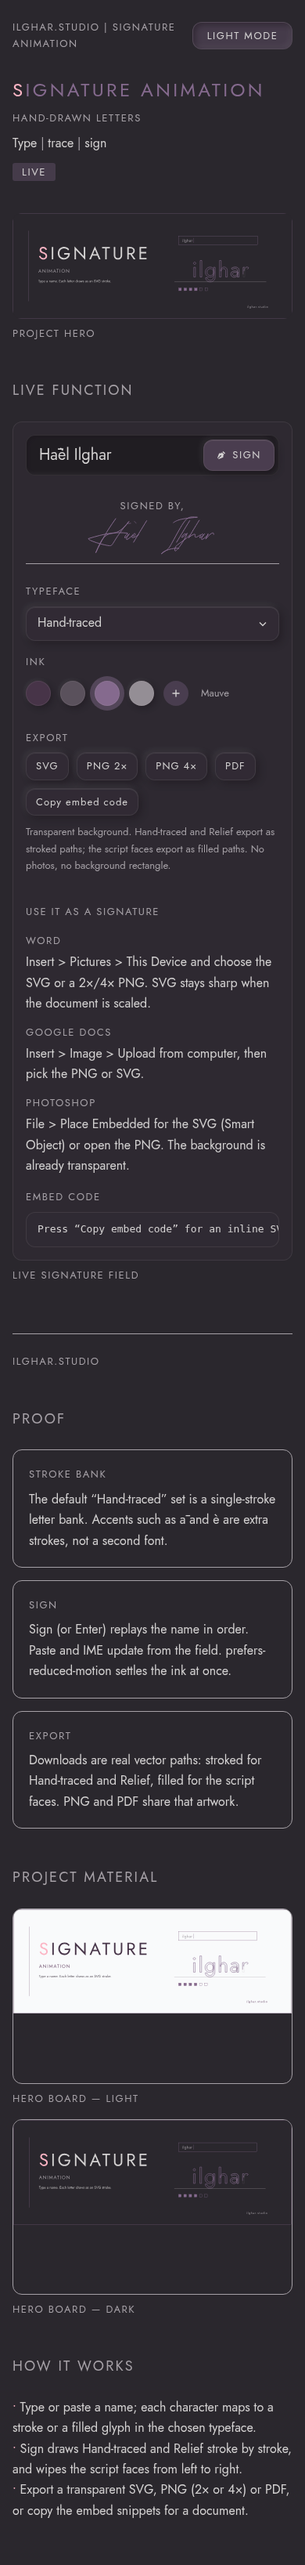
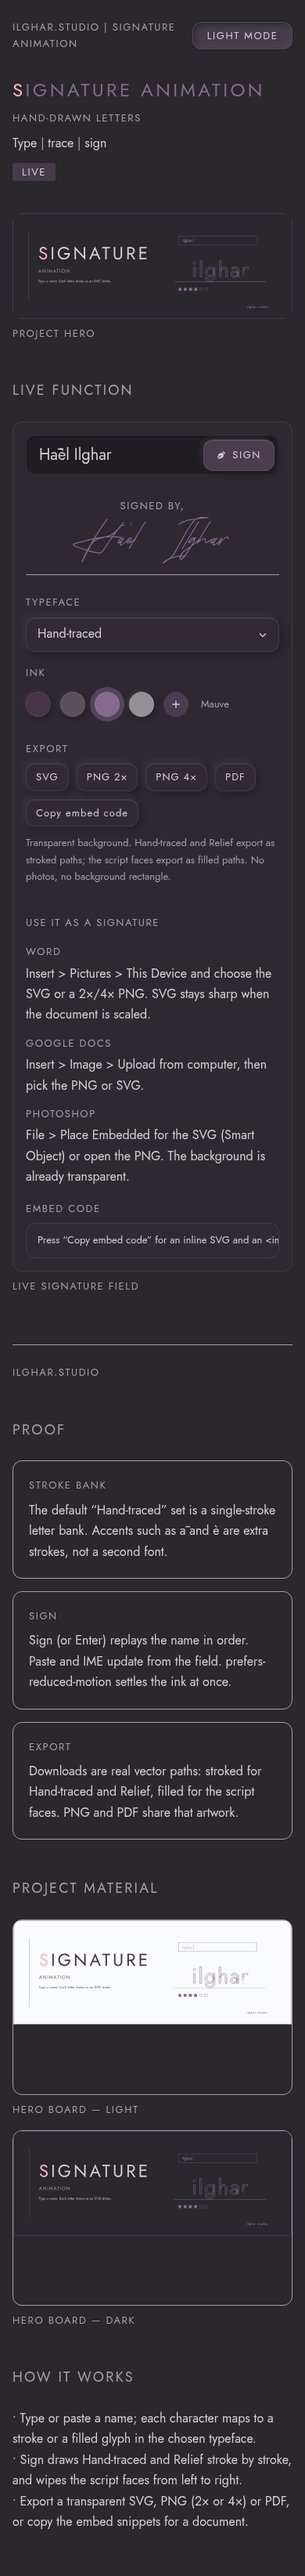
fix: scale the Signed-by signature and add WebKit shots
The name under Signed by now fills about 60% of the panel, with plum
ink in light and #856a8e in dark at full opacity. The embed-code box
uses Jost 400 instead of monospace.

A WebKit Actions workflow shoots 390 and 1280 in light and dark
(colorScheme and the in-page toggle) and uploads a webkit-shots
artifact. Real SVG and PDF exports of "Hāèl Ilghar" in Hand-traced
and Allura are in docs/pr-shots/signature-export/exports/. After
shots at 1280 and 390, light and dark, are updated.

diff --git a/script.js b/script.js
@@ -190,11 +190,35 @@ function placeholderEl(ch) {
   return el
 }
 
-function drawHandUnit(unit, animate) {
+
+/* Scale the Signed-by canvas to about 60% of the panel width. */
+const SIG_PANEL_FILL = 0.6
+
+function resetSignatureFit() {
+  if (!signMain) return
+  signMain.style.transform = 'none'
+  signMain.style.marginBottom = '0'
+}
+
+function fitSignature() {
+  if (!sigPreview || !signMain) return
+  resetSignatureFit()
+  if (!signMain.childElementCount) return
+  const panel = sigPreview.clientWidth
+  if (panel < 1) return
+  const w = signMain.scrollWidth
+  const h = signMain.scrollHeight
+  if (w < 1) return
+  const scale = (panel * SIG_PANEL_FILL) / w
+  signMain.style.transformOrigin = 'top center'
+  signMain.style.transform = 'scale(' + scale + ')'
+  signMain.style.marginBottom = (h * (scale - 1)) + 'px'
+}
+
+function createHandUnit(unit) {
   if (/^\s$/.test(unit[0]) && unit.length === 1) {
     signMain.appendChild(makeSpace())
-    markWordEdges(signMain)
-    return Promise.resolve()
+    return async () => {}
   }
   const base = unit[0]
   const marks = unit.slice(1).split('')
@@ -203,41 +227,41 @@ function drawHandUnit(unit, animate) {
   if (i < 0) {
     signMain.appendChild(placeholderEl(unitNFC(unit)))
     const path = signMain.lastChild.querySelector('path')
-    return path ? strokeIn(path, path.getTotalLength(), animate, 0) : Promise.resolve()
+    return async (animate) => {
+      if (!path) return
+      let len = 16
+      try { len = path.getTotalLength() } catch (e) { /* ignore */ }
+      await strokeIn(path, len, animate, 0)
+    }
   }
   const upper = base !== base.toLowerCase()
   const letter = document.createElement('div')
   letter.innerHTML = (upper ? uppercase : lowercase)[i].innerHTML
   letter.classList.add('letter', upper ? 'up' : 'lo', ALPHABET[i])
   signMain.appendChild(letter)
-  markWordEdges(signMain)
   const basePath = letter.querySelector('svg path')
   const accEls = []
   marks.forEach((m) => {
-    if (m in ACCENTS) accEls.push(addAccent(letter, m, upper, animate))
+    if (m in ACCENTS) accEls.push(addAccent(letter, m, upper, false))
   })
   if (!knownMarks) {
     marks.filter((m) => !(m in ACCENTS)).forEach(() => {
       letter.appendChild(placeholderEl('◌'))
     })
   }
-  const run = async () => {
-    if (basePath) {
-      let len = 40
-      try { len = basePath.getTotalLength() } catch (e) { /* ignore */ }
-      await strokeIn(basePath, len, animate, 0)
-    }
-    for (const acc of accEls) {
-      if (!acc) continue
-      const paths = [...acc.querySelectorAll('path')]
-      for (const p of paths) {
-        let len = 12
-        try { len = Math.max(8, p.getTotalLength()) } catch (e) { /* ignore */ }
-        await strokeIn(p, len, animate, 0)
-      }
+  const paths = []
+  if (basePath) paths.push({ path: basePath, fallback: 40 })
+  accEls.forEach((acc) => {
+    if (!acc) return
+    acc.querySelectorAll('path').forEach((p) => paths.push({ path: p, fallback: 12 }))
+  })
+  return async (animate) => {
+    for (const item of paths) {
+      let len = item.fallback
+      try { len = Math.max(item.fallback === 12 ? 8 : len, item.path.getTotalLength()) } catch (e) { /* ignore */ }
+      await strokeIn(item.path, len, animate, 0)
     }
   }
-  return run()
 }
 
 async function renderHand(value, animateFrom, gen) {
@@ -249,12 +273,17 @@ async function renderHand(value, animateFrom, gen) {
     sigPreview.classList.remove('mode-fill', 'is-wiping')
   }
   const list = units(value)
+  const plays = []
   for (let i = 0; i < list.length; i++) {
     if (gen !== playGen) return
-    const animate = i >= animateFrom
-    await drawHandUnit(list[i], animate)
+    plays.push(createHandUnit(list[i]))
   }
   markWordEdges(signMain)
+  fitSignature()
+  for (let i = 0; i < plays.length; i++) {
+    if (gen !== playGen) return
+    await plays[i](i >= animateFrom)
+  }
 }
 
 /* ---------- Relief SingleLine ---------- */
@@ -354,6 +383,7 @@ async function renderRelief(value, animate, gen) {
   signMain.innerHTML = built.html
   const svg = signMain.querySelector('svg')
   if (!svg) return
+  fitSignature()
   const paths = [...svg.querySelectorAll('path')]
   if (!animate || prefersReducedOrInstant()) {
     paths.forEach((p) => {
@@ -446,6 +476,7 @@ async function renderFill(fontId, value, animate, gen) {
   sigPreview.classList.remove('mode-stroke')
   const built = filledSvgMarkup(fontId, value, '', 84)
   signMain.innerHTML = built.html
+  fitSignature()
   if (animate && !prefersReducedOrInstant()) {
     sigPreview.classList.remove('is-wiping')
     void sigPreview.offsetWidth
@@ -465,6 +496,7 @@ async function render(value, animateFrom) {
   if (signBtn) signBtn.disabled = !has || !value.trim()
   if (!has) {
     signMain.innerHTML = ''
+    resetSignatureFit()
     return
   }
   const def = fontDef(currentFont)
@@ -1170,6 +1202,17 @@ function init() {
   prevValue = ''
   if (nameField && nameField.value) onInput()
   fillPickerTiles()
+  window.addEventListener('resize', fitSignature)
+  if (window.ResizeObserver && sigPreview) {
+    let lastW = sigPreview.clientWidth
+    new ResizeObserver(() => {
+      const w = sigPreview.clientWidth
+      if (w !== lastW) {
+        lastW = w
+        fitSignature()
+      }
+    }).observe(sigPreview)
+  }
 }
 
 if (document.readyState === 'loading') document.addEventListener('DOMContentLoaded', init)
@@ -1186,8 +1229,30 @@ window.__sig = {
   currentInkHex,
   buildExportSvg,
   fontDef,
+  fitSignature,
   get font() { return currentFont },
   get ink() { return currentInkHex() },
+  async buildExportPdf() {
+    const out = await buildExportSvg()
+    const host = document.createElement('div')
+    host.style.cssText = 'position:absolute;left:-9999px;top:0'
+    host.innerHTML = out.text
+    document.body.appendChild(host)
+    const svg = host.querySelector('svg')
+    const paths = svg ? [...svg.querySelectorAll('path')] : []
+    const pdf = buildPdf(out.width, out.height, paths, out.mode, currentInkHex())
+    host.remove()
+    const buf = new Uint8Array(await pdf.arrayBuffer())
+    return {
+      name: fileBase() + '.pdf',
+      bytes: Array.from(buf),
+      svg: out.text,
+      width: out.width,
+      height: out.height,
+      mode: out.mode,
+      hex: currentInkHex(),
+    }
+  },
   setTheme(theme) {
     const n = theme === 'dark' ? 'dark' : 'light'
     document.documentElement.setAttribute('data-theme', n)

diff --git a/style.css b/style.css
@@ -39,7 +39,7 @@
 .signature{margin-top:24px;padding:4px 0 10px;border-bottom:1px solid var(--line);text-align:center}
 .signed-by{
   font-size:13px;letter-spacing:.12em;text-transform:uppercase;color:var(--label);
-  padding-bottom:2px;text-align:center
+  padding-bottom:2px;text-align:center;opacity:1
 }
 .signed-by.is-on{opacity:1}
 
@@ -54,6 +54,34 @@
 }
 @media (prefers-color-scheme:dark){
   :root:not([data-theme=light]) .sig-preview{--ink-current:var(--mauve-em)}
+}
+
+/* Signed-by canvas only: fill ~60% of the panel, ink at full opacity.
+   Picker tiles keep the compact .sig-preview rules above. */
+#sig-preview{
+  display:flex;justify-content:center;width:100%;overflow:visible;opacity:1;
+  --ink-current:var(--plum)
+}
+[data-theme=dark] #sig-preview{--ink-current:#856a8e}
+@media (prefers-color-scheme:dark){
+  :root:not([data-theme=light]) #sig-preview{--ink-current:#856a8e}
+}
+#sig-preview,
+#sig-preview .signature-main,
+#sig-preview path{
+  opacity:1;stroke-opacity:1;fill-opacity:1
+}
+#sig-preview .signature-main{
+  display:flex;flex-flow:nowrap;justify-content:center;align-items:center;
+  width:max-content;max-width:none;transform-origin:top center
+}
+#sig-preview .sig-relief,
+#sig-preview .sig-filled{
+  max-width:none;width:auto;height:84px
+}
+@media (max-width:767px){
+  #sig-preview .sig-relief,
+  #sig-preview .sig-filled{height:58px}
 }
 
 .signature-main{
@@ -582,3 +610,4 @@
 .howto{margin-top:16px}
 .embed-block{margin-top:12px}
 .embed-block .label{margin-top:12px}
+.embed-block pre{font:400 13px/1.45 var(--font)}

diff --git a/pages-shell.css b/pages-shell.css
@@ -51,6 +51,6 @@ section[aria-label="Live function"] .frame > *,
 .embed-block{margin-top:16px}
 .embed-block pre{
   margin:8px 0 0;padding:12px 14px;overflow:auto;max-width:100%;
-  font:400 13px/1.45 monospace; /* wait - monospace might be ok as generic? CI GENERIC includes monospace */
+  font:400 13px/1.45 var(--font);
   color:var(--fg);background:var(--glass);border:1px solid var(--glass-edge);border-radius:var(--r-frame)
 }
